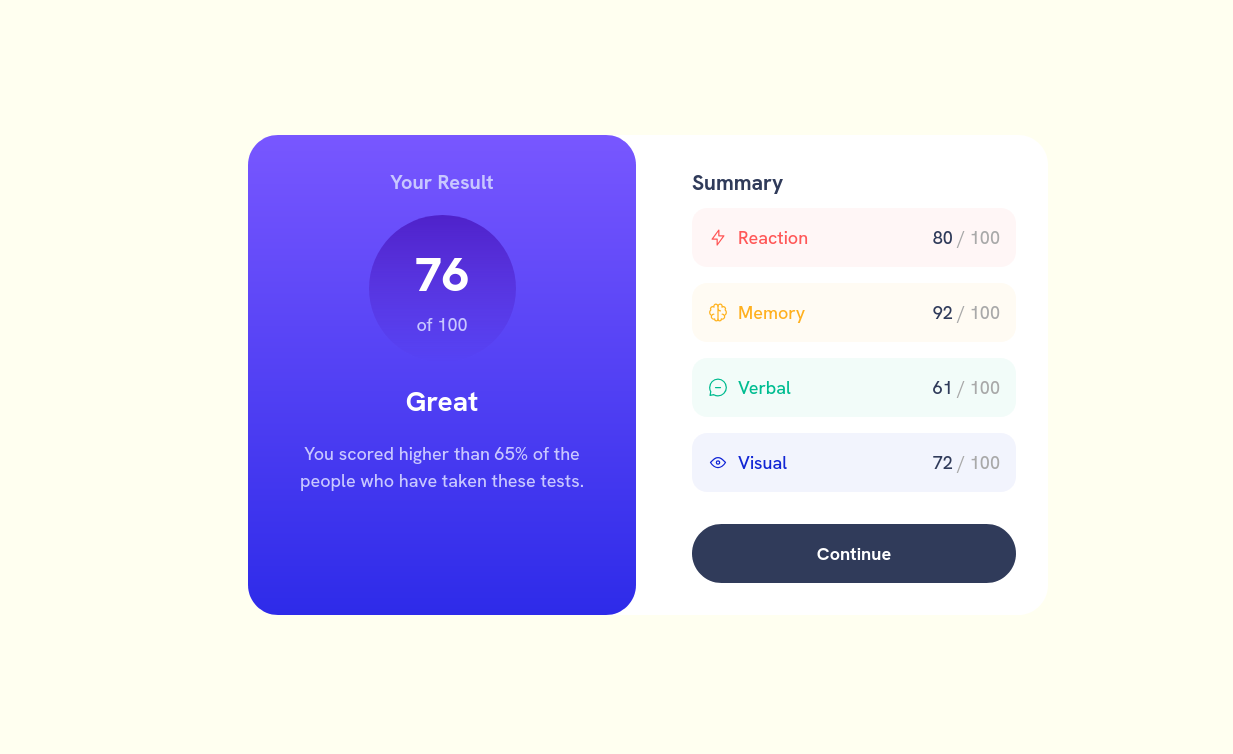
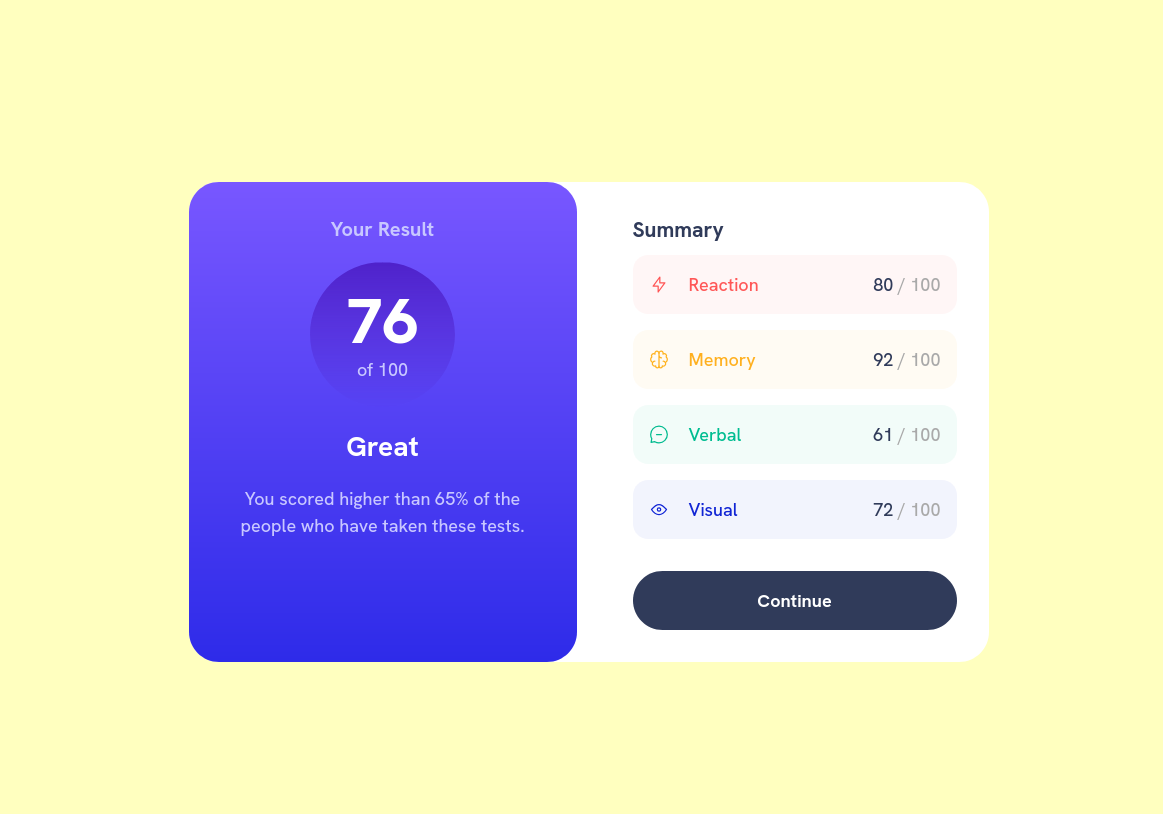
adapted body bg

diff --git a/styles.css b/styles.css
@@ -86,6 +86,7 @@ body {
   display: flex;
   flex-direction: column;
   gap: 2.4rem;
+  
 }
 
 /* Header Styles */
@@ -216,7 +217,7 @@ body {
 /* Responisve styles for desktop view */
 @media (min-width: 47.5rem) {
   body {
-    background-color: #FFFFF0;
+    background-color: hwb(60 75% 0%);
   }
   .card {
     flex-direction: row;
